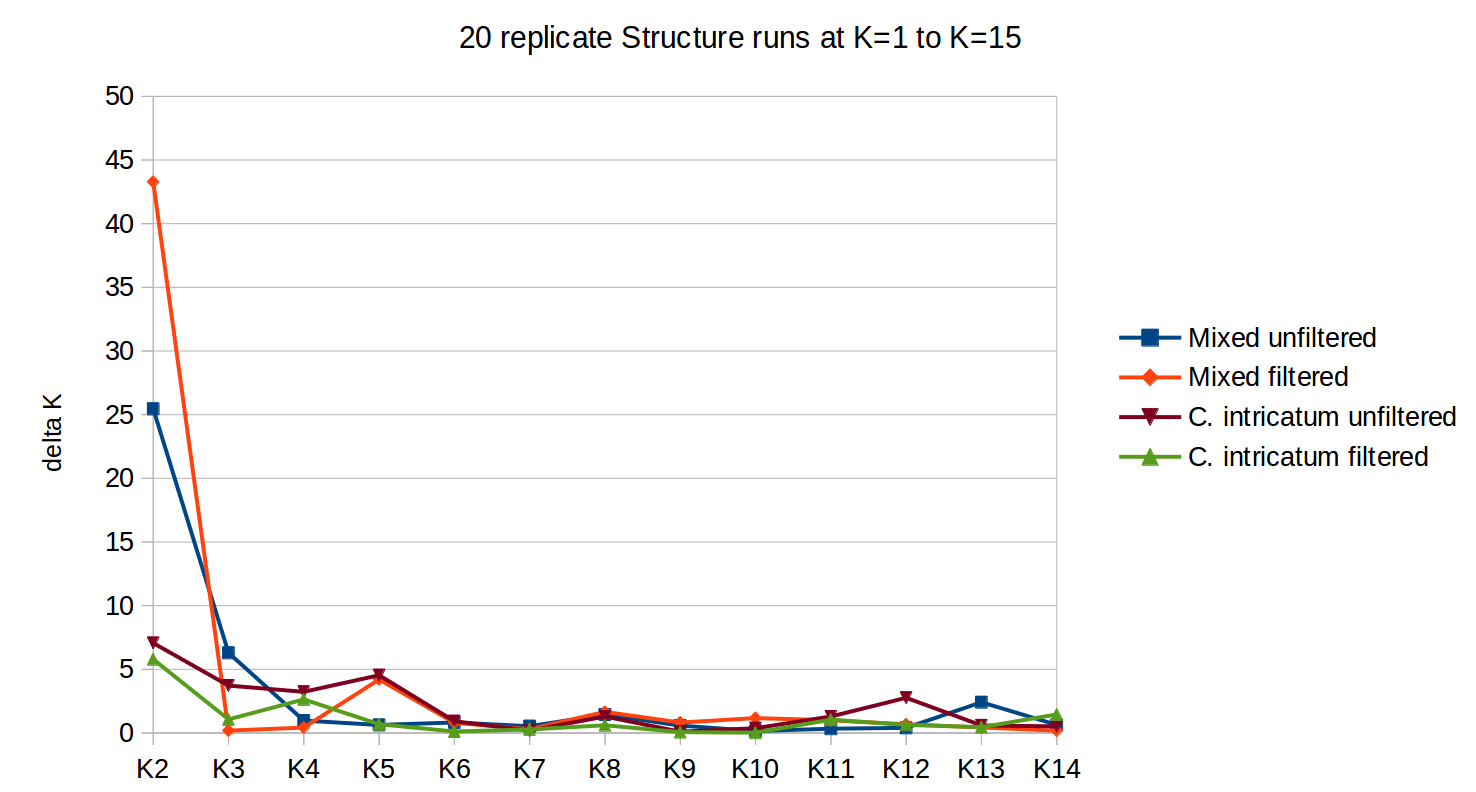
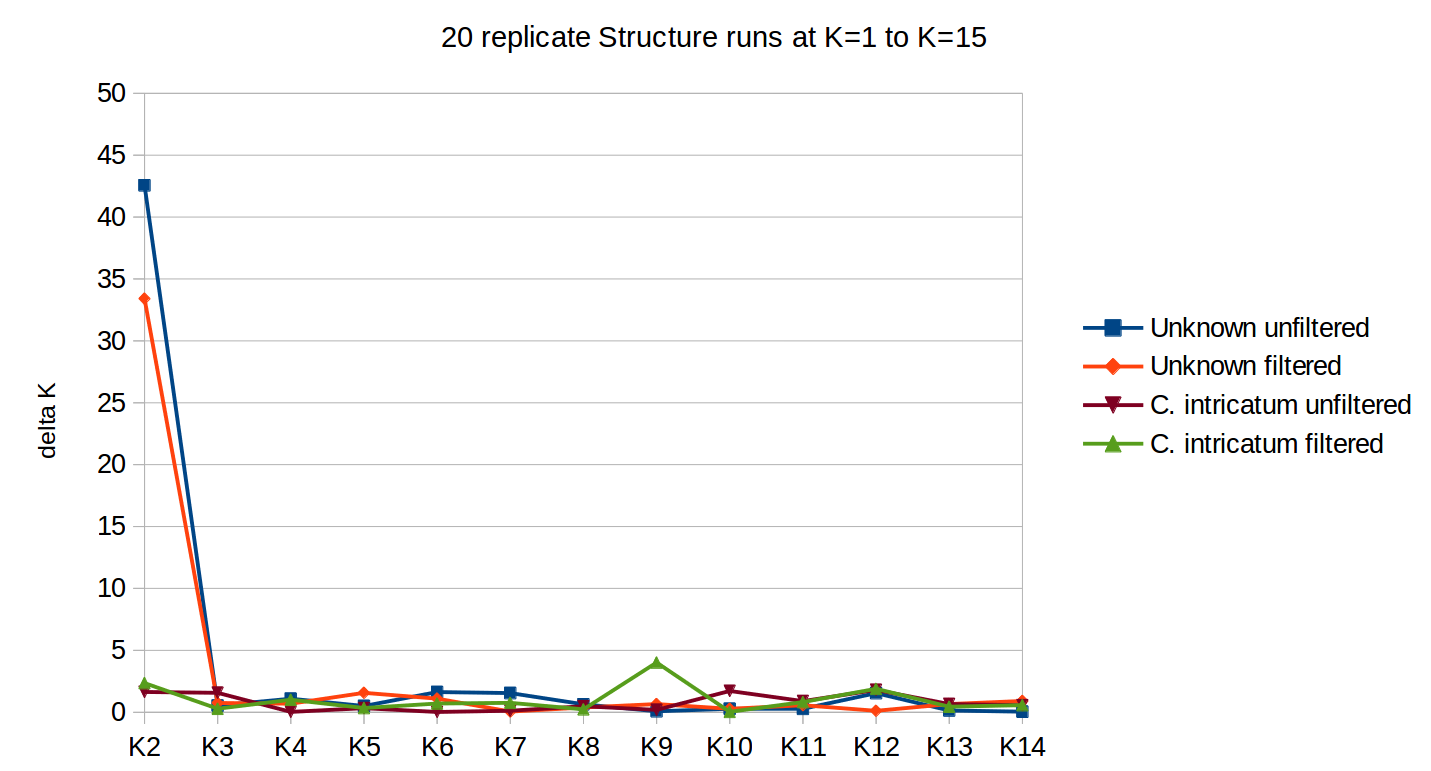
Replace structure figures with latest analyses and continue updating to correctly refer to mixed samples as unknown.

diff --git a/Crepidomanes_GBS_manuscript.md b/Crepidomanes_GBS_manuscript.md
@@ -81,15 +81,21 @@ Structure runs using the All-33, All-50, and All-66 datasets with three clusters
 
 Neighbor-joining Euclidean distance trees generally support the gametophyte assignments based on Structure, with samples for each species grouped together (Figure 6). There is also some support for the subgroupings of Unknown samples. One clade includes all of the _D. petersii_ samples and the two Unknown samples suspected to be mixed _C. intricatum_ + _D. petersii_, and another clade contains all of the _V. boschiana_ samples, both of the samples suspected to be _C. intricatum_ + _V. boschiana_, and all but one of the remaining Unknown samples.
 
-Analyses of observed heterozygosity levels and deviation from Hardy Weinberg equilibrium support differences between samples classified as different species as well. Approximately 28% of loci in _C. intricatum_ samples and 4% of loci in Unknown samples were not in Hardy Weinberg equilibrium, whereas none of the loci in _D. petersii_ or _V. boschiana_ samples were identified as deviating from HWE. Mean observed heterozygosity was higher in _C. intricatum_ samples (28.5%) than  _D. petersii_ (12.0%), _V. boschiana_ (8.1%), or Unknown samples 11.8%), and this difference was statistically significant (F=33.91, df=3, p<2e-16).
+Analyses of observed heterozygosity levels and deviation from Hardy Weinberg equilibrium support differences between samples classified as different species as well. Approximately 28% of loci in _C. intricatum_ samples and 4% of loci in Unknown samples were not in Hardy Weinberg equilibrium, whereas none of the loci in _D. petersii_ or _V. boschiana_ samples were identified as deviating from HWE. Mean observed heterozygosity was higher in _C. intricatum_ samples (29%) than  _D. petersii_ (12%), _V. boschiana_ (8%), or Unknown samples 12%), and this difference was statistically significant (F=33.91, df=3, p<2e-16).
 
-HERE OR DISCUSSION? Seven samples were apparently a different species than what was suspected based on geographic location or proximity to sporophytes. Four suspected C. intricatum samples appear to be V. boschiana samples, one suspected D. petersii is C. intricatum, and two suspected V. boschiana samples are D. petersii. In addition, four samples may contain mixtures of more than one species of gametophyte or hybrid gametophytes including S20, that suspected to be V. boschiana but consistently groups with either C. intricatum gametophytes or D. petersii sporophytes, but never with V. boschiana sporophytes. MORE DETAIL ABOUT WHY EACH SAMPLE WAS SUSPECTED? DISCUSS WHAT THIS MEANS ABOUT OUR ABILITY TO ID GAMETOPHYTES BASED ON PRESENCE/ABSENCE OF SPOROPHYTES
+HERE OR DISCUSSION? Seven samples were apparently a different species than what was suspected based on geographic location or proximity to sporophytes. Four suspected C. intricatum samples appear to be V. boschiana samples, one suspected D. petersii is C. intricatum, and two suspected V. boschiana samples are D. petersii. In addition, four samples may contain mixtures of more than one species of gametophyte or hybrid gametophytes including S20, that was suspected to be V. boschiana but consistently groups with either C. intricatum gametophytes or D. petersii sporophytes, but never with V. boschiana sporophytes. MORE DETAIL ABOUT WHY EACH SAMPLE WAS ORIGINALLY SUSPECTED? DISCUSS WHAT THIS MEANS ABOUT OUR ABILITY TO ID GAMETOPHYTES BASED ON PRESENCE/ABSENCE OF SPOROPHYTES
 
 ## Investigating genetic variation in _C. intricatum_
 
-Removing the non-_Crepidomanes_ loci did not have a large effect on the total number of loci in the Mixed-filtered dataset relative to the Mixed-unfiltered dataset (6% of total loci filtered; Table 3), likely because even a non-_Crepidomanes_ locus present in all 15 of the mixed/unknown samples would not meet the 50% minimum sample coverage cutoff. Individual samples differed in the proportion of loci with signal (not missing data) that were lost (Table 4), but mixed/unknown samples lost an average of 19% of their loci with signal, whereas _C. intricatum_ samples only lost an average of 6%, and this difference is statistically significant (t=4.48, df=15.4, p=0.0004). As expected, removing the non-_Crepidomanes_ loci had even less effect on the total number of loci in the _C. intricatum_ filtered dataset relative to the _C. intricatum_ unfiltered dataset, with only 2% of total loci filtered (Table 3; Table 4).
+Removing the non-_Crepidomanes_ loci did not have a large effect on the total number of loci in the Unknown-filtered dataset relative to the Unknown-unfiltered dataset (5% of total loci filtered; Table 3), likely because even a non-_Crepidomanes_ locus present in all of the Unknown samples would not meet the 50% minimum sample coverage cutoff. Individual samples differed in the proportion of loci with signal (not missing data) that were lost (Table 4), but Unknown samples lost an average of 20% of their loci with signal, whereas _C. intricatum_ samples only lost an average of 4%, and this difference is statistically significant (t=3.49, df=6.13, p-value = 0.012). As expected, removing the non-_Crepidomanes_ loci had even less effect on the total number of loci in the _C. intricatum_ filtered dataset relative to the _C. intricatum_ unfiltered dataset, with only 2% of total loci filtered (Table 3; Table 4).
 
-Structure runs using the Mixed-unfiltered subset of the data suggest that the mixed/unknown samples cluster separately from the _C. intricatum_ samples (Figure 7a). _C. intricatum_ samples all have most (>90%) of their ancestry assigned to clusters c1 and c2, whereas 12 of the 15 mixed/unknown samples have the majority of their ancestry assigned to other clusters and all 15 have over 10% of their ancestry assigned to other clusters.  After filtering non-_Crepidomanes_ loci (Figure 7b) this apparent difference between _C. intricatum_ and mixed/unknown samples remains, with only two mixed/unknown samples (S07 and S49) changing their ancestry assignments to more closely match the _C. intricatum_ samples. It is possible that these two samples are actually mixed samples and the other 13 just appeared to be mixed due to insufficient genetic signal. However, it is also possible that the attempt to bioinformatically remove non-_Crepidomanes_ genetic signal was not successful and that removing the loci present in the _V. boschiana_ and _D. petersii_ samples did not remove a large enough proportion of the non-_Crepidomanes_ loci. In either case, because we could not determine whether the mixed/unknown samples cluster separately because of variation in _C. intricatum_ genetic signal or because of genetic signal from other species, the remaining analyses focused only on the 26 _C. intricatum_ samples. The results for unfiltered and filtered _C. intricatum_ datasets were similar to each other and yielded identical inferences, so only results for the _C. intricatum_-filtered dataset are presented.
+Structure runs using the Unknown-unfiltered subset of the data suggest that most of the Unknown samples cluster separately from the _C. intricatum_ samples (Figure 7a USE K2 FROM EACH). Most of the _C. intricatum_ samples have tye majority of their ancestry assigned to one cluster, whereas five of the seven Unknown samples have the majority of their ancestry assigned to the other cluster.  After filtering non-_Crepidomanes_ loci (Figure 7b) this apparent difference between _C. intricatum_ and Unknown samples remains.
+
+
+
+
+
+It is possible that these two samples are actually mixed samples and the other 13 just appeared to be mixed due to insufficient genetic signal. However, it is also possible that the attempt to bioinformatically remove non-_Crepidomanes_ genetic signal was not successful and that removing the loci present in the _V. boschiana_ and _D. petersii_ samples did not remove a large enough proportion of the non-_Crepidomanes_ loci. In either case, because we could not determine whether the mixed/unknown samples cluster separately because of variation in _C. intricatum_ genetic signal or because of genetic signal from other species, the remaining analyses focused only on the 26 _C. intricatum_ samples. The results for unfiltered and filtered _C. intricatum_ datasets were similar to each other and yielded identical inferences, so only results for the _C. intricatum_-filtered dataset are presented.
 
 Analysis of K-means and Evanno's delta-K for the C. intricatum + mixed/unknown data subsets suggested that the samples cluster optimally into 2--6 groups (Figure 9; Figure 11), but for the _C. intricatum_ samples the optimal number of clusters appears to be just one (Figure 10; Figure 11). Structure results using K=2 divide the ancestry for every sample between two clusters with no clear geographic pattern (Figure 8).
 
@@ -138,7 +144,7 @@ QUESTIONS- If I had 2 samples that really were genetically identical clones, how
 
 ACKNOWLEDGEMENTS
 ================
-NOTE- U of U CHPC for computing resources
+NOTE- U of U CHPC for computing resources, Zach Gompert for guidance on library prep
 
 
 REFERENCES

diff --git a/Crepidomanes_GBS_manuscript_figures.md b/Crepidomanes_GBS_manuscript_figures.md
@@ -30,23 +30,17 @@ __Figure 6__ - Neighbor-joining Euclidean distance trees using the All-33 datase
 ![](Figures/NJ_tree-by_species.png)
 
 
-__Figure 7__ - Results of Structure analyses for the datasets including samples assigned as _C. intricatum_ or mixed/unknown, a) with and b) without non-_Crepidomanes_ loci. Results shown are from the best of 20 runs at K=5.
+__Figure 7__ - Results of Structure analyses for the datasets including samples assigned as _C. intricatum_ or mixed/unknown, a) with and b) without non-_Crepidomanes_ loci. Results shown are from the best of 20 runs at K=2.
 
 ![](Figures/Structure_plots-Mixed_unfiltered_vs_filtered-K5.png)
 
-__Figure 8__ - Results of Structure analyses for the subset of the data including only samples assigned as _C. intricatum_ without non-_Crepidomanes_ loci. Results shown are from the best of 20 runs at K=2. NOTE- Drop the K=6 part of the figure
+__Figure 8__ - Results of Structure analyses for the subset of the data including only samples assigned as _C. intricatum_. Results shown are from the best of 20 runs at K=2.
 
 ![](Figures/Structure_plots-Crep_filtered-K2_and_K6.png)
 
-__Figure 9__ - K-means analysis for the datasets including samples assigned as _C. intricatum_ or mixed/unknown, with and without non-_Crepidomanes_ loci.
+__Figure 9__ - K-means analysis for the datasets including samples assigned as _C. intricatum_ or _C. intricatum_ + Unknown, with and without non-_Crepidomanes_ loci.
 
-![](Figures/Kmeans-Mixed_unfiltered.png)
-![](Figures/Kmeans-Mixed_filtered.png)
-
-__Figure 10__ - K-means analysis for the datasets including samples assigned as _C. intricatum_, with and without non-_Crepidomanes_ loci.
-
-![](Figures/Kmeans-Crep_unfiltered.png)
-![](Figures/Kmeans-Crep_filtered.png)
+![](Figures/Kmeans.png)
 
 __Figure 11__ - Delta-K analysis for all four datasets.
 
